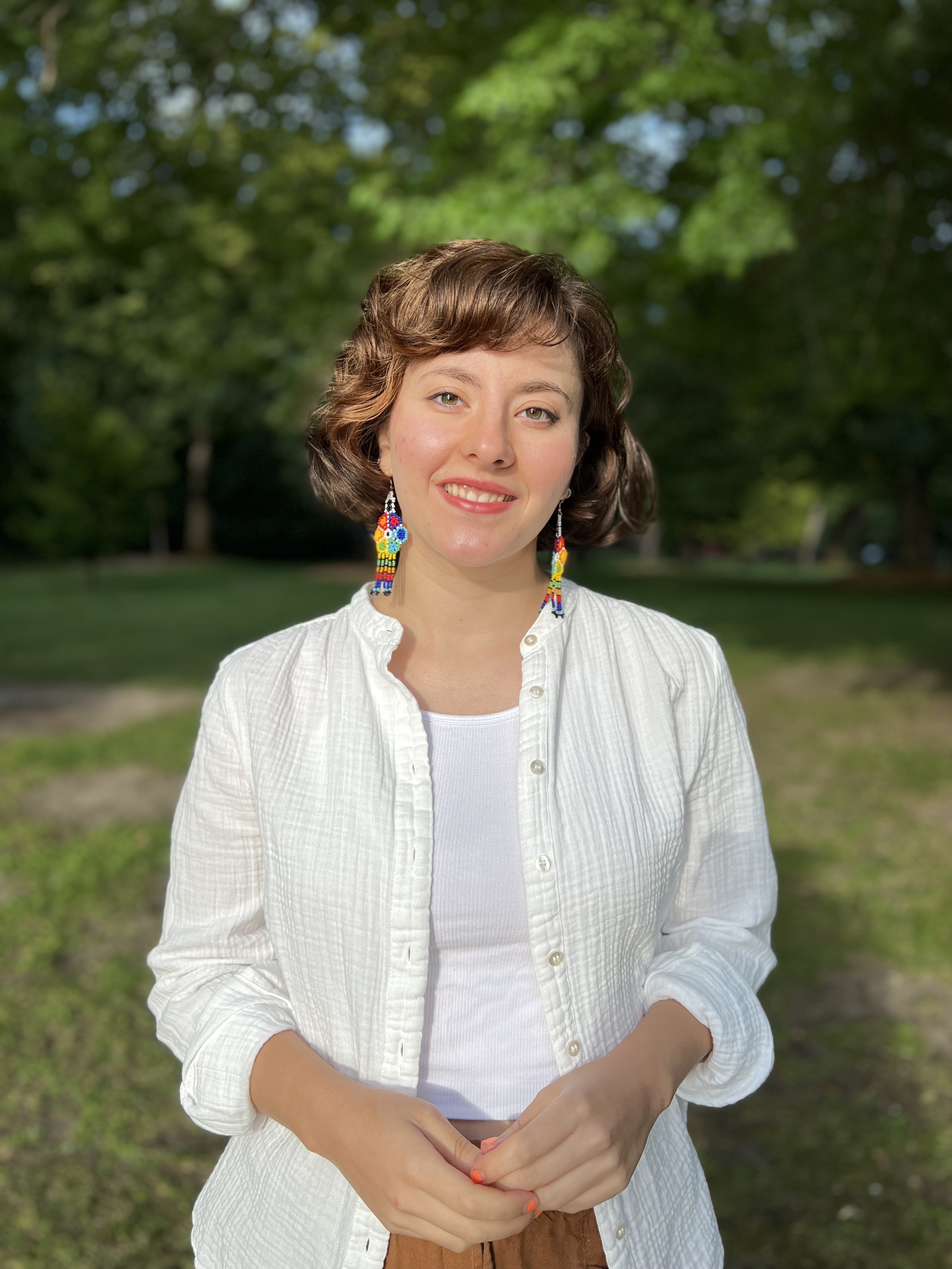
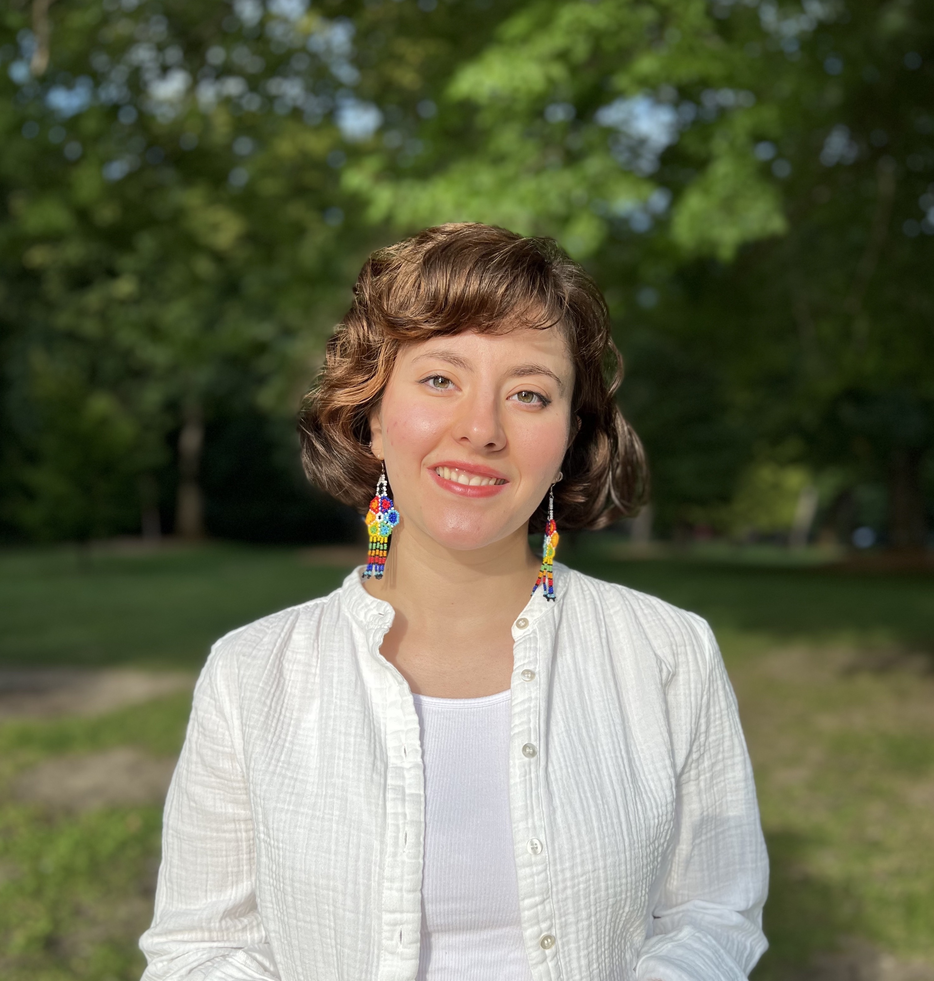
updated cover photo

diff --git a/assets/css/agency.css b/assets/css/agency.css
@@ -166,7 +166,7 @@ img::-moz-selection {
 header.masthead {
   text-align: center;
   color: white;
-  background-image: url("../img/IMG_0934.jpg");
+  background-image: url("../img/IMG_0934_cropped.jpg");
   background-repeat: no-repeat;
   background-attachment: scroll;
   background-position: center center;
